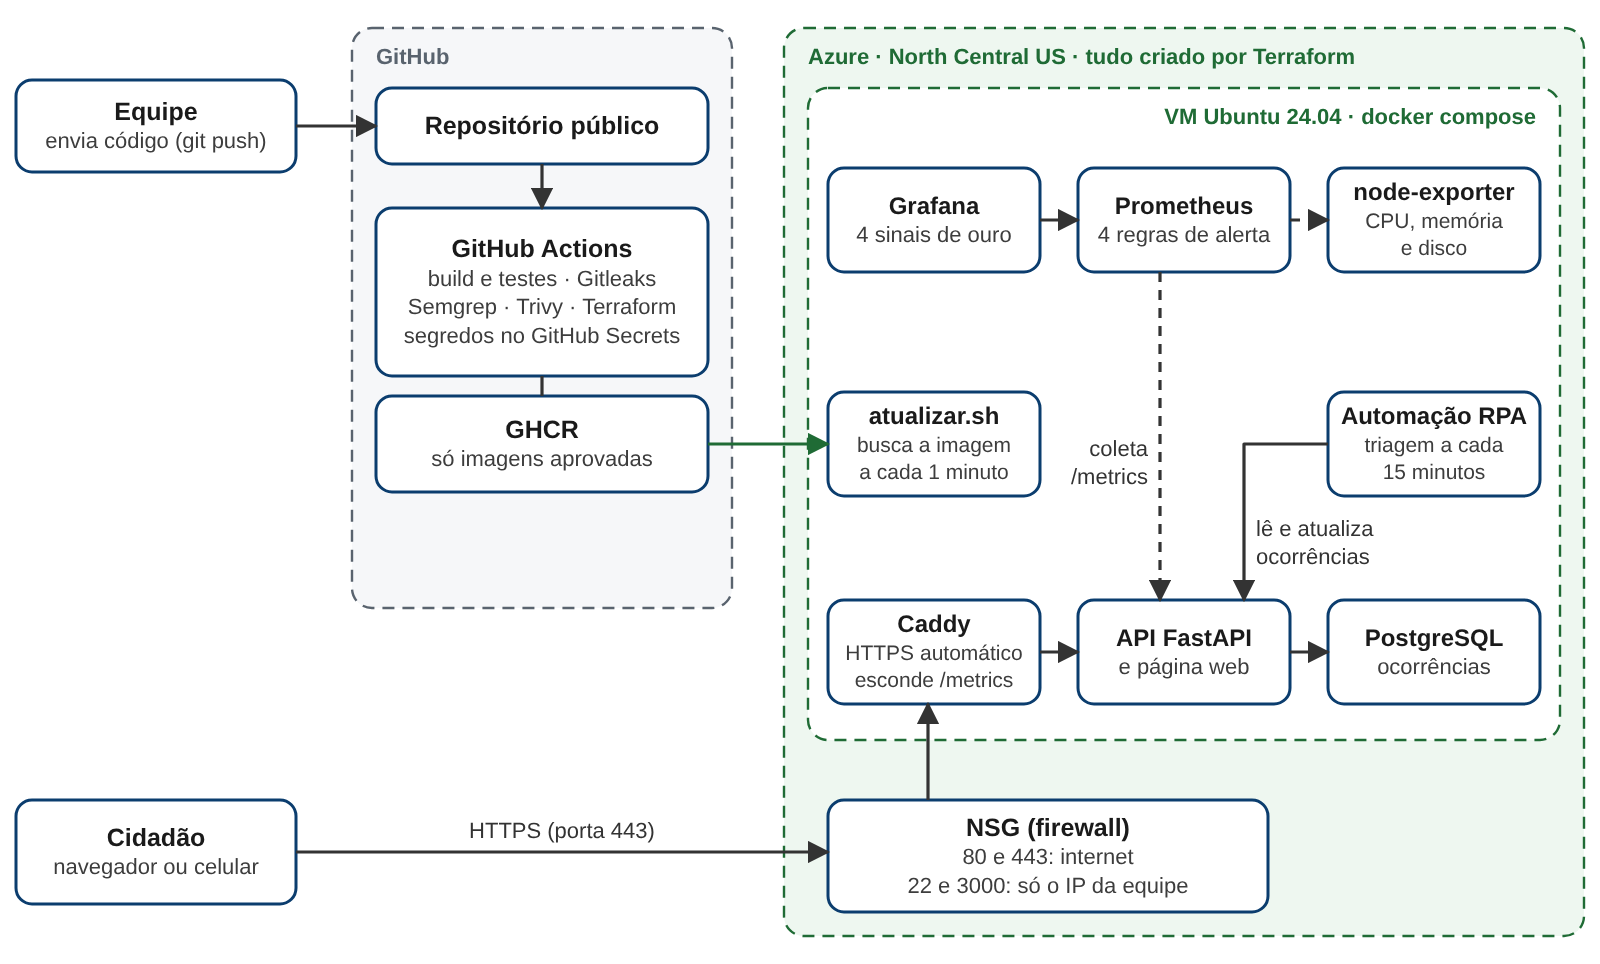
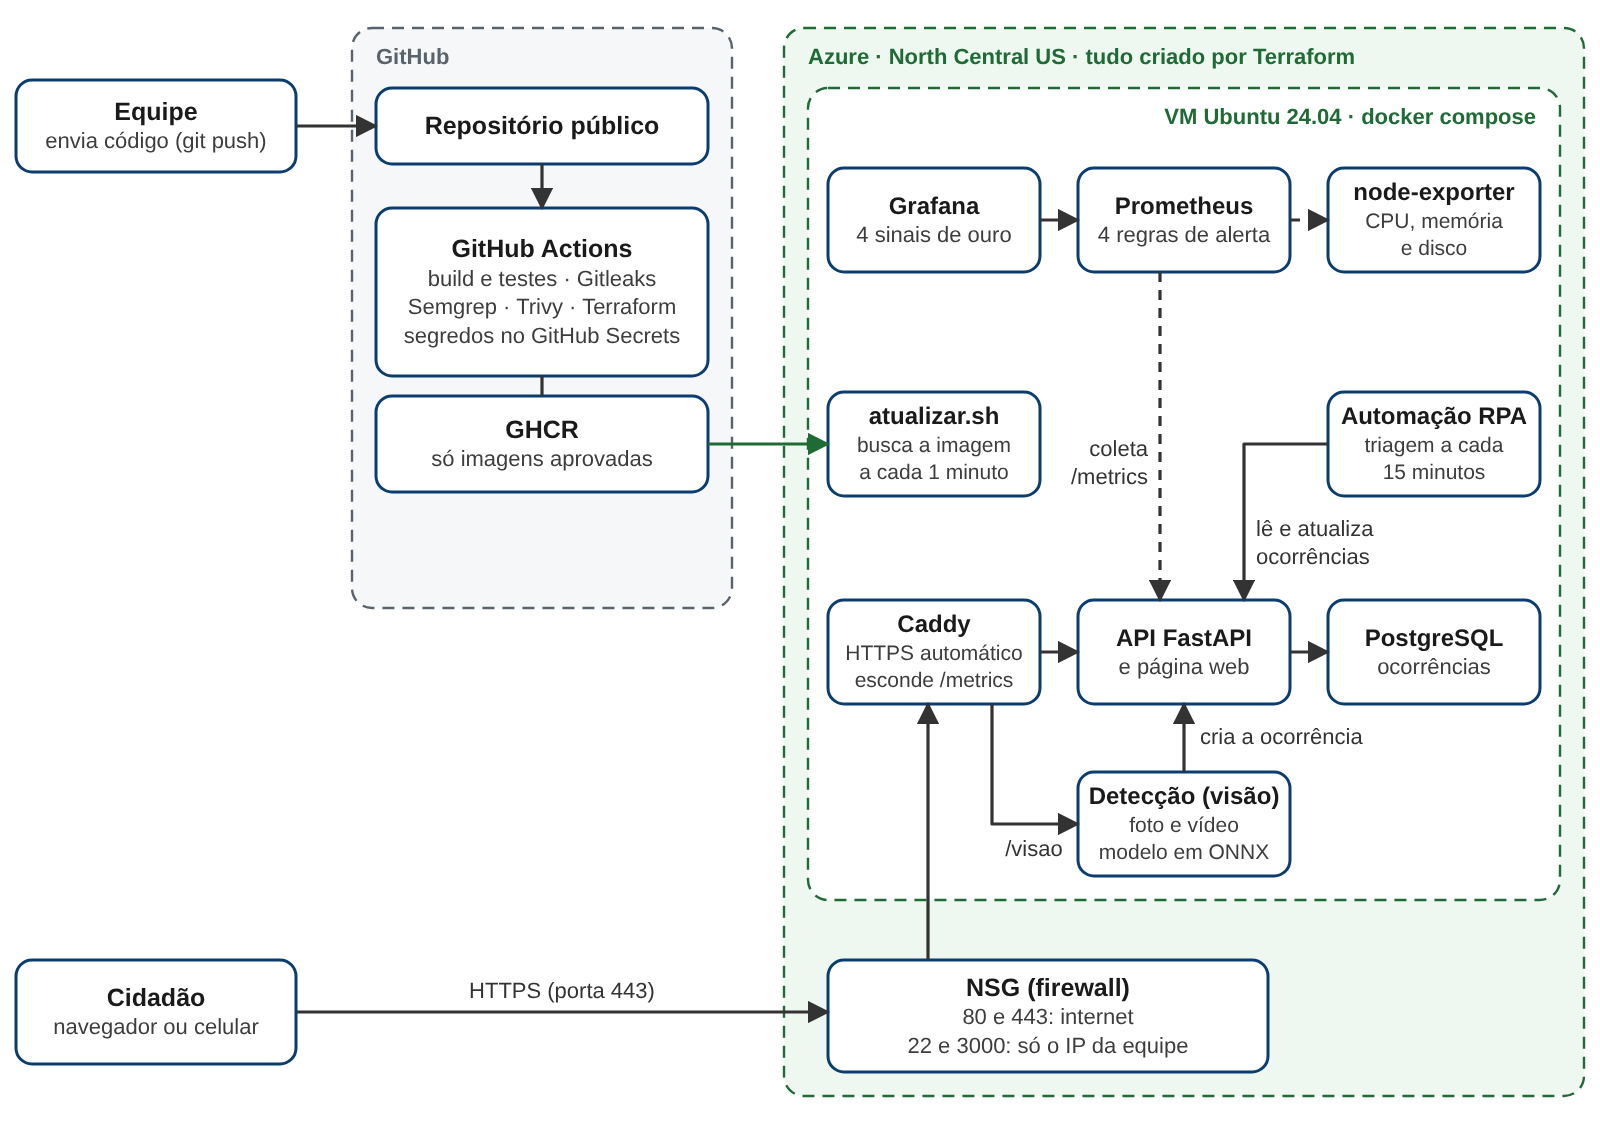
Pipeline e documentação: teste de fumaça da detecção, arquitetura, LGPD e créditos

diff --git a/docs/devsecops.md b/docs/devsecops.md
@@ -6,6 +6,8 @@ Como o MVP chega ao cidadão: empacotado em container, numa nuvem descrita por c
 
 **No ar desde 18/11/2026:** <https://calcada-livre-vsqie.northcentralus.cloudapp.azure.com>
 
+Em 19/11/2026 o MVP ganhou a página nova e a detecção de barreiras por visão computacional: o cidadão envia uma foto ou um vídeo, o modelo treinado pela equipe identifica a barreira e a ocorrência entra na mesma API, com origem `visao`. As duas imagens abaixo são de 18/11, com a página anterior.
+
 ![MVP no ar pela URL pública, com as ocorrências do cenário de demonstração no mapa](evidencias/03-mvp-no-ar.png)
 
 A mesma página, mais abaixo, com as ocorrências já triadas pela automação (protocolo, prioridade e subprefeitura). Os dados são simulados.
@@ -16,13 +18,14 @@ A mesma página, mais abaixo, com as ocorrências já triadas pela automação (
 
 | Requisito | Como foi atendido | Onde |
 |---|---|---|
-| Dockerfile enxuto | Multi-stage: o estágio `build` instala as dependências num venv; a imagem final copia só o venv e o código, sem compiladores nem cache, e o pip da imagem base é removido. Tamanho: 70 MB compactada. Base `python:3.13-slim` com `apt-get upgrade` para receber as correções de segurança | `mvp/Dockerfile` |
+| Dockerfile enxuto | Multi-stage: o estágio `build` instala as dependências num venv; a imagem final copia só o venv e o código, sem compiladores nem cache, e o pip da imagem base é removido. A mesma imagem serve a API e o serviço de detecção (`visao`), cada um com seu comando. Tamanho: cerca de 200 MB compactada (eram 70 MB antes da detecção; a diferença são o OpenCV, o ONNX Runtime e o modelo). O modelo roda em ONNX para a imagem não precisar do PyTorch, que passaria de 1 GB. Base `python:3.13-slim` com `apt-get upgrade` para receber as correções de segurança | `mvp/Dockerfile` |
 | Usuário não root | `USER app` (uid 10001) | `mvp/Dockerfile` |
 | Sem segredo na imagem | Nenhum `ENV` com senha; tudo chega por variável de ambiente em tempo de execução. `.dockerignore` exclui `.env` e bancos locais. O Trivy também procura segredos | `mvp/.dockerignore` |
-| Stack com `docker compose` | `docker compose up -d` sobe banco, API, Caddy e, com perfis, a automação de triagem (serviço `robo`), Prometheus, Grafana e node-exporter | `docker-compose.yml` |
-| Endurecimento extra | API com `read_only`, `cap_drop: ALL`, `no-new-privileges`; banco e Prometheus sem porta publicada; healthchecks; rotação de logs | `docker-compose.yml` |
+| Stack com `docker compose` | `docker compose up -d` sobe banco, API, serviço de detecção (`visao`), Caddy e, com perfis, a automação de triagem (serviço `robo`), Prometheus, Grafana e node-exporter | `docker-compose.yml` |
+| Endurecimento extra | API e detecção com `read_only`, `cap_drop: ALL`, `no-new-privileges`; detecção com limite de CPU e de memória, para um vídeo pesado não derrubar a API; banco e Prometheus sem porta publicada; healthchecks; rotação de logs | `docker-compose.yml` |
+| Envio de arquivos | Só imagem (JPG, PNG, WEBP até 10 MB) e vídeo (até 50 MB e 2 minutos), conferidos pelo conteúdo e não pelo nome; o limite de tamanho vale no Caddy e de novo no serviço; um vídeo por vez e limite de envios por minuto; as fotos ficam num volume do compose | `mvp/visao/`, `infra/caddy/Caddyfile` |
 
-**Produção, 18/11/2026:** os sete containers rodando na VM da Azure (`docker compose ps`, pelo Cloud Shell, sem SSH).
+**Produção, 18/11/2026:** os sete containers rodando na VM da Azure (`docker compose ps`, pelo Cloud Shell, sem SSH). Desde 19/11 são oito, com o `visao`.
 
 ![Saída do docker compose ps na VM: sete serviços no ar](evidencias/04-docker-compose-ps.png)
 
@@ -59,7 +62,7 @@ Arquivo: `.github/workflows/devsecops.yml`. Roda a cada push e pull request. As 
 - **Trivy** reprova CVE CRITICAL ou HIGH que já tenha correção, e configuração insegura em Dockerfile, compose e Terraform.
 - **Terraform** confere a formatação, valida a configuração (`terraform validate`) e roda os testes da infraestrutura (`terraform test`): `admin_cidr = 0.0.0.0/0` tem de ser recusado, e SSH e Grafana só podem aceitar o IP da equipe.
 - **Segredos no GitHub Secrets:** `ROBO_API_KEY` (usada no teste de fumaça para provar que a autenticação funciona em produção sem alterar dados). A publicação no GHCR usa o `GITHUB_TOKEN` temporário do próprio Actions. A URL fica em *Variables* (`MVP_URL`), porque não é segredo.
-- **Deploy automático:** a VM roda `infra/deploy/atualizar.sh` a cada minuto (timer do systemd). Ele baixa a imagem mais recente publicada, lê nela o commit que o pipeline aprovou (`GIT_SHA`) e deixa as configurações (compose, Caddyfile, Prometheus) nesse mesmo commit. Um commit barrado não chega à VM, nem como imagem nem como configuração. Se a configuração do proxy ou do monitoramento mudou, Caddy, Prometheus e Grafana são reiniciados para carregá-la. O job final só fica verde quando `GET /health` em produção responde com o commit que acabou de passar no pipeline.
+- **Deploy automático:** a VM roda `infra/deploy/atualizar.sh` a cada minuto (timer do systemd). Ele baixa a imagem mais recente publicada, lê nela o commit que o pipeline aprovou (`GIT_SHA`) e deixa as configurações (compose, Caddyfile, Prometheus) nesse mesmo commit. Um commit barrado não chega à VM, nem como imagem nem como configuração. Se a configuração do proxy ou do monitoramento mudou, Caddy, Prometheus e Grafana são reiniciados para carregá-la. O job final só fica verde quando `GET /health` em produção responde com o commit que acabou de passar no pipeline e o teste de fumaça passa: página, API, autenticação, `/metrics` fechado e serviço de detecção respondendo e recusando um arquivo que não é imagem.
 
 **Deploy automático em produção, 18/11/2026.** Na [execução nº 9](https://github.com/CarlosGanzerli/calcada-livre/actions/runs/44337279436), a imagem do commit `1abe301` foi publicada às 12h36min16s (horário de Brasília) e a VM passou a responder com esse commit 1 minuto e 55 segundos depois, sem ninguém entrar na máquina. Trecho do log do job **Conferir deploy em produção**:
 
@@ -115,7 +118,7 @@ WRN leaks found: 1
 
 ## 4. Observabilidade (3,0)
 
-Prometheus coleta as métricas da API (`/metrics`, só na rede interna) e da VM (node-exporter). O Grafana já sobe com a fonte de dados e o painel **"Calçada Livre · 4 sinais de ouro"** provisionados por arquivo.
+Prometheus coleta as métricas da API e do serviço de detecção (`/metrics`, só na rede interna) e da VM (node-exporter). O Grafana já sobe com a fonte de dados e o painel **"Calçada Livre · 4 sinais de ouro"** provisionados por arquivo.
 
 | Sinal de ouro | Métrica | Painel |
 |---|---|---|
@@ -165,7 +168,10 @@ Como usamos IaaS (uma VM), a maior parte da responsabilidade é nossa. Num PaaS 
 |---|---|---|---|
 | Ocorrência (tipo, coordenada, data, origem) | Não | PostgreSQL no disco da VM, região North Central US (Illinois, EUA) | Banco sem porta exposta; só a API acessa |
 | Descrição livre | Pode conter por engano | Mesmo banco | A automação de triagem remove telefone, e-mail e CPF antes do encaminhamento; a página orienta a não escrever dados pessoais |
-| IP de quem acessa | Sim (dado pessoal indireto) | Não é gravado: o log de acesso do Caddy fica desligado (padrão) e a API roda sem log de acesso (`--no-access-log`); só erros vão para o log do container, com rotação de 10 MB × 3 | Não é usado nem enviado a terceiros |
+| Foto enviada | Pode conter (rosto, placa, GPS nos dados EXIF) | Só a foto já tratada, no volume `visao-arquivos` da VM | A página pede para não enviar imagens com pessoas. Os dados EXIF são descartados, rostos e placas são borrados antes de gravar, e o arquivo original não é guardado |
+| Vídeo enviado | Pode conter (rosto, placa) | Não fica guardado: é apagado quando a análise termina ou é interrompida | Rostos e placas são borrados em cada quadro antes de exibir; só o quadro da barreira confirmada vira foto da ocorrência |
+| Endereço digitado | Não (é o endereço da barreira) | Na descrição da ocorrência | A busca vai do navegador para o Nominatim (OpenStreetMap), só quando o cidadão clica em buscar, no máximo uma consulta por segundo |
+| IP de quem acessa | Sim (dado pessoal indireto) | Não é gravado: o log de acesso do Caddy fica desligado (padrão) e a API e a detecção rodam sem log de acesso (`--no-access-log`); só erros vão para o log do container, com rotação de 10 MB × 3 | Não é usado nem enviado a terceiros |
 | Logs da automação de triagem | Não | Volume do serviço `robo` na VM | Recusam descrição, foto e coordenada |
 | Métricas | Não | Prometheus (15 dias) | Só contagens e tempos |
 | Segredos | Não pessoais, mas sensíveis | `/etc/calcada-livre/.env` (root, 600), `terraform.tfstate` local, GitHub Secrets | Fora do Git, Gitleaks no pipeline |
@@ -173,10 +179,11 @@ Como usamos IaaS (uma VM), a maior parte da responsabilidade é nossa. Num PaaS 
 **Por que North Central US, e não Brazil South.** A assinatura Azure for Students usada no trabalho permite criar recursos em Brazil South, mas não oferece lá nenhum dos tamanhos de VM do projeto. O `preparar.sh` confere isso antes de criar a nuvem e escolheu a primeira região permitida com máquina disponível. Consequências para a LGPD:
 
 - O MVP não coleta dados pessoais, então não há cadastro de cidadão guardado fora do Brasil.
-- O único risco é alguém escrever um dado pessoal na descrição livre por engano. Nesse caso ele ficaria guardado nos EUA, o que seria uma transferência internacional (LGPD, arts. 33 a 36). Por isso a página orienta a não escrever dados pessoais e a automação de triagem remove telefone, e-mail e CPF.
+- Os riscos são alguém escrever um dado pessoal na descrição livre ou enviar uma foto em que apareça uma pessoa. Nesses casos o dado ficaria guardado nos EUA, o que seria uma transferência internacional (LGPD, arts. 33 a 36). Por isso a página orienta a não escrever dados pessoais e a não enviar imagens com pessoas, a automação de triagem remove telefone, e-mail e CPF, e rostos e placas são borrados antes de a foto ser gravada.
+- O borrão é automático e pode deixar passar um rosto pequeno ou de lado. Por isso o aviso na página vem antes do envio.
 - Num ambiente real, com assinatura paga, basta `regiao = "brazilsouth"` no `terraform.tfvars` para tudo ficar no Brasil. Nenhuma outra linha muda.
 
-O mapa de fundo é baixado pelo navegador do cidadão direto do OpenStreetMap.
+O mapa de fundo é baixado pelo navegador do cidadão direto do OpenStreetMap. A detecção roda inteira na VM: nenhuma foto ou vídeo é enviado a serviço de terceiros, e a telemetria do ONNX Runtime fica desligada (`ORT_DISABLE_TELEMETRY=1`).
 
 **Dados de demonstração.** As ocorrências que aparecem no MVP publicado são simuladas: vêm do cenário de demonstração da automação de triagem (`python -m triagem.semear`, no repositório [calcada-livre-rpa](https://github.com/CarlosGanzerli/calcada-livre-rpa)), que cria um caso para cada decisão da triagem. Nenhuma delas se refere a uma pessoa ou a um relato real.
 

diff --git a/README.md b/README.md
@@ -2,7 +2,7 @@
 
 [![devsecops](https://github.com/CarlosGanzerli/calcada-livre/actions/workflows/devsecops.yml/badge.svg)](https://github.com/CarlosGanzerli/calcada-livre/actions/workflows/devsecops.yml)
 
-Mapa colaborativo de barreiras de acessibilidade em calçadas de São Paulo. Este repositório contém o **MVP** (API e página web) e a **produção DevSecOps**: container, infraestrutura como código, pipeline com barreiras de segurança e observabilidade.
+Mapa colaborativo de barreiras de acessibilidade em calçadas de São Paulo. Este repositório contém o **MVP** (API, página web e detecção de barreiras por visão computacional em foto e vídeo) e a **produção DevSecOps**: container, infraestrutura como código, pipeline com barreiras de segurança e observabilidade.
 
 FIAP Global Solution 2026.2 · Engenharia de Software 4º ano · disciplina *Secure DevOps Tools & Cloud Computing* (profs. Gabriel Henrique Boyczuk Arcanjo e Cleórbete Santos).
 
@@ -33,9 +33,9 @@ FIAP Global Solution 2026.2 · Engenharia de Software 4º ano · disciplina *Sec
 | Cidadão e território | Pessoas com deficiência, idosos e pais com carrinho de bebê, no município de São Paulo (SP) |
 | Problema em uma frase | Barreiras em calçadas (buracos, degraus, obstáculos, falta de rampa, trechos escuros) impedem a circulação e não chegam organizadas a quem pode corrigi-las |
 | Proposta de valor | Reunir relatos de cidadãos, de um carrinho inspetor (Maker Lab) e de uma câmera com IA num mapa único, triar automaticamente e encaminhar à subprefeitura certa com prioridade |
-| Componentes | Página web com mapa e API (este repositório) · automação de triagem em RPA ([calcada-livre-rpa](https://github.com/CarlosGanzerli/calcada-livre-rpa)) · carrinho inspetor (Maker Lab) · visão computacional · pipeline de dados · assistente com LLM local |
-| Fontes de dados | Relatos do app, leituras do carrinho, detecções da câmera, previsão Open-Meteo, pontos de interesse públicos |
-| Modelos de IA | YOLO (visão computacional, detecção de barreiras) · LLM local (assistente) |
+| Componentes | Página web com mapa, API e detecção de barreiras em foto e vídeo (este repositório) · automação de triagem em RPA ([calcada-livre-rpa](https://github.com/CarlosGanzerli/calcada-livre-rpa)) · carrinho inspetor (Maker Lab) · treino do modelo de visão computacional ([paulopes1/calcada-livre](https://github.com/paulopes1/calcada-livre)) · pipeline de dados · assistente com LLM local |
+| Fontes de dados | Relatos do app, fotos e vídeos enviados pelo cidadão, leituras do carrinho, detecções da câmera, previsão Open-Meteo, pontos de interesse públicos |
+| Modelos de IA | YOLO26n treinado pela equipe (visão computacional: buraco, obstáculo e piso quebrado), rodando no MVP com ONNX Runtime, em CPU · LLM local (assistente) |
 | URL e repositório | MVP: https://calcada-livre-vsqie.northcentralus.cloudapp.azure.com · Repositório: https://github.com/CarlosGanzerli/calcada-livre |
 | Indicadores de impacto | Tempo entre relato e encaminhamento · % de relatos triados sem intervenção humana · barreiras de prioridade alta perto de hospitais, escolas e pontos de ônibus |
 | ODS | 11 (cidades e comunidades sustentáveis) · 10 (redução das desigualdades) · 3 (saúde e bem-estar) |
@@ -46,8 +46,9 @@ FIAP Global Solution 2026.2 · Engenharia de Software 4º ano · disciplina *Sec
 
 ![Arquitetura de produção](docs/arquitetura.svg)
 
-- **Uma VM Ubuntu na Azure (região North Central US)**, criada inteira por Terraform, roda tudo com `docker compose`: Caddy (HTTPS automático), API FastAPI, PostgreSQL, automação de triagem, Prometheus, Grafana e node-exporter.
+- **Uma VM Ubuntu na Azure (região North Central US)**, criada inteira por Terraform, roda tudo com `docker compose`: Caddy (HTTPS automático), API FastAPI, serviço de detecção por visão computacional, PostgreSQL, automação de triagem, Prometheus, Grafana e node-exporter.
 - **Firewall (NSG):** só as portas 80 e 443 ficam abertas para a internet. SSH (22) e Grafana (3000) só aceitam o IP da equipe, e o Terraform **recusa** `0.0.0.0/0` para essas portas.
+- **Detecção em container próprio (`visao`):** o cidadão envia a foto ou o vídeo, o modelo identifica a barreira e a ocorrência entra na mesma API, com origem `visao`, foto e confiança. Se a detecção parar, o mapa, a API e a triagem continuam no ar.
 - **Deploy por pull:** a VM verifica a cada minuto se há uma imagem nova aprovada e se atualiza sozinha. O pipeline então confere em produção que a versão nova está no ar. Assim o SSH nunca precisa ficar aberto para os endereços (variáveis) dos runners do GitHub.
 
 ## Pipeline
@@ -62,7 +63,7 @@ Requisito: Docker com Compose.
 
 ```bash
 cp .env.example .env          # troque as senhas
-docker compose up -d --build  # API, banco, Caddy, Prometheus e Grafana
+docker compose up -d --build  # API, detecção, banco, Caddy, Prometheus e Grafana
 ```
 
 - MVP: http://localhost
@@ -88,6 +89,7 @@ O `preparar.sh` usa a ferramenta `az` (já instalada no Azure Cloud Shell). Sem 
 
 ```
 mvp/                     API FastAPI, página acessível com mapa, testes e Dockerfile
+mvp/visao/               detecção de barreiras em foto e vídeo (modelo em ONNX)
 docker-compose.yml       stack completa (perfis: monitoramento e robo, a automação de triagem)
 infra/terraform/         VM, rede, firewall, IP público e cloud-init
 infra/caddy/             proxy HTTPS e cabeçalhos de segurança
@@ -100,8 +102,16 @@ docs/                    arquitetura, DevSecOps, custos, LGPD, guia de deploy e 
 ## Segurança e LGPD (resumo)
 
 - Nenhum dado pessoal é coletado. A ocorrência tem tipo, coordenada e descrição; a automação de triagem remove telefone, e-mail e CPF escritos por engano.
+- Fotos e vídeos: a página pede para não enviar imagens com pessoas. Os dados EXIF (GPS, aparelho) são descartados, rostos e placas são borrados antes de qualquer gravação, só a foto com a barreira marcada é guardada e o vídeo é apagado ao fim da análise. O modelo roda na própria VM, sem enviar imagem a terceiros.
 - Os dados ficam no disco da VM, na região North Central US (EUA): a assinatura de estudante não oferece em Brazil South os tamanhos de VM do projeto. Num ambiente real, uma variável do Terraform leva tudo para Brazil South ([detalhes](docs/devsecops.md#onde-ficam-os-dados-pessoais-lgpd)).
 - Segredos: gerados aleatoriamente pelo Terraform, gravados só em `/etc/calcada-livre/.env` na VM (root, 600) e no `terraform.tfstate` local; a chave de acesso da automação também fica no GitHub Secrets. Nada disso vai para o Git (`.gitignore`), e o Gitleaks barra o push se algo escapar.
 - Container sem root, sistema de arquivos somente leitura, sem capabilities; `/metrics` bloqueado na internet.
 
 Mais em [docs/devsecops.md](docs/devsecops.md).
+
+## Créditos e licenças
+
+- **Modelo de visão computacional:** YOLO26n treinado pela equipe na disciplina de visão computacional, no repositório [paulopes1/calcada-livre](https://github.com/paulopes1/calcada-livre) (pasta `visao/`), onde estão os dados de treino, as métricas e os créditos dos datasets (licença MIT) e dos vídeos (CC BY 3.0). Aqui ele é usado convertido para ONNX (`mvp/visao/modelo/`). O treino usa o [Ultralytics YOLO](https://github.com/ultralytics/ultralytics) (AGPL-3.0), e o modelo é distribuído sob a mesma licença.
+- **Imagem de exemplo da página:** quadro do vídeo [Nova lixeira na calçada atrapalha pedestres](https://commons.wikimedia.org/wiki/File:Nova_lixeira_na_cal%C3%A7ada_atrapalha_pedestres.webm), de Videojournalisms (Wikimedia Commons, CC BY 3.0), com a detecção desenhada e rostos e placas borrados.
+- **Imagens de teste** (`mvp/tests/amostras/`): amostras dos datasets públicos de licença MIT usados no treino.
+- **Mapa e busca de endereço:** © colaboradores do [OpenStreetMap](https://www.openstreetmap.org/copyright) (ODbL), com [Leaflet](https://leafletjs.com/) (BSD-2). **Fonte:** [Inter](https://rsms.me/inter/) (SIL Open Font License).
